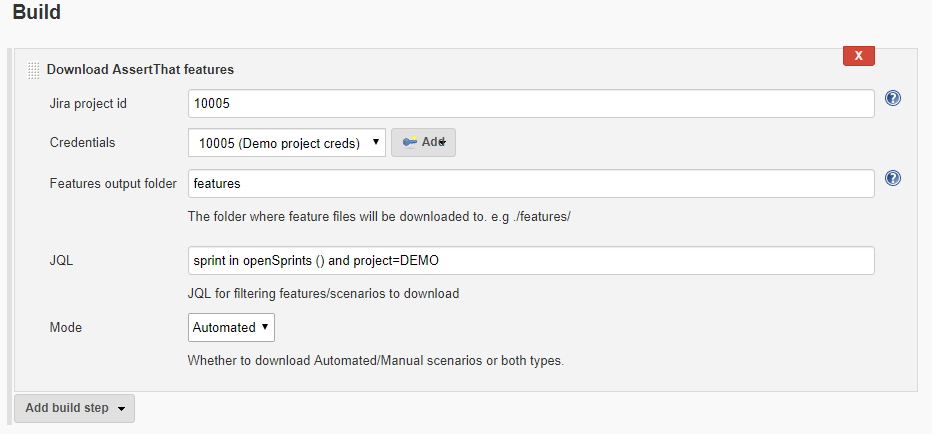
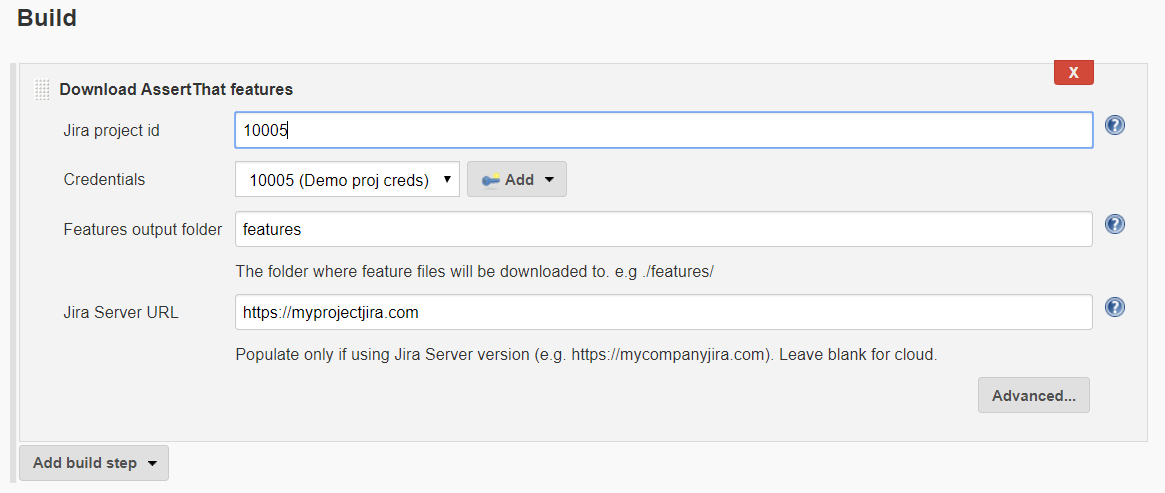
Add Jira server integration

diff --git a/src/main/resources/io/jenkins/plugins/assertthatbddjira/AssertThatBDDFeaturesBuilder/help-jiraServerUrl.html b/src/main/resources/io/jenkins/plugins/assertthatbddjira/AssertThatBDDFeaturesBuilder/help-jiraServerUrl.html
@@ -1,0 +1,3 @@
+<div>
+    Jira Server URL. Populate only if using Jira Server version (e.g. https://mycompanyjira.com). Leave blank for cloud.
+</div>

diff --git a/src/main/resources/io/jenkins/plugins/assertthatbddjira/AssertThatBDDReportBuilder/help-jiraServerUrl.html b/src/main/resources/io/jenkins/plugins/assertthatbddjira/AssertThatBDDReportBuilder/help-jiraServerUrl.html
@@ -1,0 +1,3 @@
+<div>
+    Jira Server URL. Populate only if using Jira Server version (e.g. https://mycompanyjira.com). Leave blank for cloud.
+</div>

diff --git a/src/main/java/io/jenkins/plugins/assertthatbddjira/AssertThatBDDFeaturesBuilder.java b/src/main/java/io/jenkins/plugins/assertthatbddjira/AssertThatBDDFeaturesBuilder.java
@@ -36,6 +36,8 @@ import java.util.List;
 import jenkins.tasks.SimpleBuildStep;
 import org.jenkinsci.Symbol;
 
+import static org.apache.commons.collections.CollectionUtils.isEmpty;
+
 public class AssertThatBDDFeaturesBuilder extends Builder implements SimpleBuildStep {
 
     private final String projectId;
@@ -46,6 +48,11 @@ public class AssertThatBDDFeaturesBuilder extends Builder implements SimpleBuild
     private final String proxyURI;
     private final String proxyUsername;
     private final String proxyPassword;
+    private final String jiraServerUrl;
+
+    public String getJiraServerUrl() {
+        return jiraServerUrl;
+    }
 
     public String getProxyURI() {
         return proxyURI;
@@ -82,7 +89,7 @@ public class AssertThatBDDFeaturesBuilder extends Builder implements SimpleBuild
     }
     
     @DataBoundConstructor
-    public AssertThatBDDFeaturesBuilder(String projectId, String credentialsId, String outputFolder, String jql, String mode, String proxyURI, String proxyUsername, String proxyPassword) {
+    public AssertThatBDDFeaturesBuilder(String projectId, String credentialsId, String outputFolder, String jql, String mode, String proxyURI, String proxyUsername, String proxyPassword, String jiraServerUrl) {
         this.projectId = projectId;
         this.outputFolder = outputFolder;
         this.mode = mode;
@@ -91,6 +98,7 @@ public class AssertThatBDDFeaturesBuilder extends Builder implements SimpleBuild
         this.proxyURI = proxyURI;
         this.proxyUsername = proxyUsername;
         this.proxyPassword=proxyPassword;
+        this.jiraServerUrl = jiraServerUrl;
     }
     
     private AssertThatBDDCredentials getAssertThatBDDCredentials(String credentialsId) {
@@ -115,10 +123,11 @@ public class AssertThatBDDFeaturesBuilder extends Builder implements SimpleBuild
                 proxyPassword,
                 mode,
                 jql,
-                null
+                null,
+                jiraServerUrl
         );
-    
-        APIUtil apiUtil = new APIUtil(arguments.getProjectId(), arguments.getAccessKey(), arguments.getSecretKey(), arguments.getProxyURI(), arguments.getProxyUsername(), arguments.getProxyPassword());
+        String url = arguments.getJiraServerUrl()==null || arguments.getJiraServerUrl().trim().length()==0? null: arguments.getJiraServerUrl().trim();
+        APIUtil apiUtil = new APIUtil(arguments.getProjectId(), arguments.getAccessKey(), arguments.getSecretKey(), arguments.getProxyURI(), arguments.getProxyUsername(), arguments.getProxyPassword(),url);
     
         try {
             String outputPath = workspace.toURI().getPath();

diff --git a/src/main/java/io/jenkins/plugins/assertthatbddjira/AssertThatBDDReportBuilder.java b/src/main/java/io/jenkins/plugins/assertthatbddjira/AssertThatBDDReportBuilder.java
@@ -47,6 +47,11 @@ public class AssertThatBDDReportBuilder extends Recorder implements SimpleBuildS
     private final String proxyURI;
     private final String proxyUsername;
     private final String proxyPassword;
+    private final String jiraServerUrl;
+
+    public String getJiraServerUrl() {
+        return jiraServerUrl;
+    }
 
     public String getProxyURI() {
         return proxyURI;
@@ -61,7 +66,7 @@ public class AssertThatBDDReportBuilder extends Recorder implements SimpleBuildS
     }
 
     @DataBoundConstructor
-    public AssertThatBDDReportBuilder(String projectId, String credentialsId, String jsonReportFolder, String jsonReportIncludePattern, String runName, String type,  String proxyURI, String proxyUsername, String proxyPassword) {
+    public AssertThatBDDReportBuilder(String projectId, String credentialsId, String jsonReportFolder, String jsonReportIncludePattern, String runName, String type,  String proxyURI, String proxyUsername, String proxyPassword, String jiraServerUrl) {
         this.projectId = projectId;
         this.credentialsId = credentialsId;
         this.jsonReportFolder = jsonReportFolder;
@@ -71,6 +76,7 @@ public class AssertThatBDDReportBuilder extends Recorder implements SimpleBuildS
         this.proxyURI = proxyURI;
         this.proxyUsername = proxyUsername;
         this.proxyPassword=proxyPassword;
+        this.jiraServerUrl = jiraServerUrl;
     }
 
     public String getProjectId() {
@@ -119,9 +125,11 @@ public class AssertThatBDDReportBuilder extends Recorder implements SimpleBuildS
                 proxyPassword,
                 null,
                 null,
-                type
+                type,
+                jiraServerUrl
         );
-        APIUtil apiUtil = new APIUtil(arguments.getProjectId(), arguments.getAccessKey(), arguments.getSecretKey(), arguments.getProxyURI(), arguments.getProxyUsername(), arguments.getProxyPassword());
+        String url = arguments.getJiraServerUrl()==null || arguments.getJiraServerUrl().trim().length()==0? null: arguments.getJiraServerUrl().trim();
+        APIUtil apiUtil = new APIUtil(arguments.getProjectId(), arguments.getAccessKey(), arguments.getSecretKey(), arguments.getProxyURI(), arguments.getProxyUsername(), arguments.getProxyPassword(),url);
 
         String[] files;
         try {

diff --git a/README.md b/README.md
@@ -31,7 +31,7 @@ pipeline {
         stage('Features') { 
             steps {
                 //Download feature files
-                assertthatBddFeatures(credentialsId: '10005', jql: 'project=DEMO', mode: 'automated', outputFolder: 'features', projectId: '10005')
+                assertthatBddFeatures(credentialsId: '10005',  jiraServerUrl: '', jql: 'project=DEMO', mode: 'automated', outputFolder: 'features', projectId: '10005')
             }
         }
         stage('Run tests') { 
@@ -44,7 +44,7 @@ pipeline {
     post{
         always{
                 //Upload test results
-                assertthatBddReport(credentialsId: '10005', jsonReportFolder: 'report', jsonReportIncludePattern: '**/*.json', projectId: '10005', runName: 'Smoke test run', type: 'karate')
+                assertthatBddReport(credentialsId: '10005',  jiraServerUrl: '', jsonReportFolder: 'report', jsonReportIncludePattern: '**/*.json', projectId: '10005', runName: 'Smoke test run', type: 'karate')
         }
     }
 
